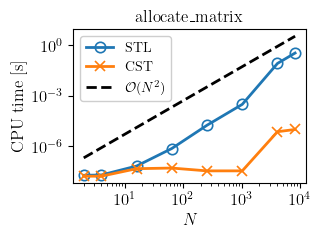
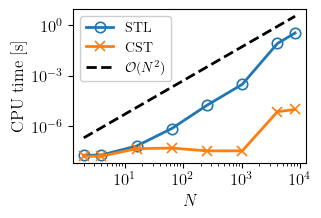
modifying readme

diff --git a/benchmarks/python/common.py b/benchmarks/python/common.py
@@ -94,6 +94,7 @@ def label_from_key(key):
 def plot_results(data, save_plots_to_disk, show_plots, output_file, plot_options):
     location = plot_options["location"]
     legend_outside = plot_options["legend_outside"] if "legend_outside" in plot_options else False
+    print_figure_title = plot_options["print_figure_title"]
     figure_title = plot_options["figure_title"]
     show_legend = plot_options["show_legend"]
     logx = plot_options["logx"]
@@ -210,7 +211,7 @@ def plot_results(data, save_plots_to_disk, show_plots, output_file, plot_options
         else:
             ax.set_yticks(merged_ax2)
 
-    if figure_title != "":
+    if print_figure_title:
         ax.set_title(figure_title)
 
     ax.legend(loc=location, facecolor='white', framealpha=0.95)

diff --git a/benchmarks/python/plot_results.py b/benchmarks/python/plot_results.py
@@ -21,6 +21,7 @@ show_plots = False
 output_file = Path(benchmarks_path / (benchmark_name + ".png"))
 plot_options = dict()
 plot_options["location"] = "upper left"
+plot_options["print_figure_title"] = False
 plot_options["figure_title"] = benchmark_name
 plot_options["with_legend"] = True
 plot_options["logx"] = True

diff --git a/README.md b/README.md
@@ -3,7 +3,6 @@
 
 This repository implements a small linear algebra library in C++ with two distinct backends for performing operations on matrices and vectors. Both backends are designed to evaluate operations lazily, offering efficiency and flexibility.
 
----
 
 ## Goals of the Project
 
@@ -22,7 +21,6 @@ The project sought to compare the efficiency of two backends designed for lazy e
 ### 4. Investigating Custom (CST) Containers vs STL Containers
 Another key motivation was to explore whether a very simple user-implemented container could achieve the same level of efficiency as `std::vector`, the standard container for dynamic arrays in C++.
 
----
 
 ## Overview of the Backends
 
@@ -35,16 +33,37 @@ Leverages the modern C++ Ranges and Views library for lazy evaluation of operati
 In both backends the underlying container for storing matrix and vector coefficients is templetized. By default, ET uses `std::vector` and RG uses a custom container implemented from scratch. 
 
 ## Performance Comparison
-This section presents the results of performance comparisons between the two backends. The analysis is divided into two parts:
+This section presents the results of performance comparisons between the two backends. The analysis is divided into two parts.
 
 ### 1. **Comparison of Underlying Containers: STL VS CST**
-Here, we evaluate the performance difference between `std::vector` (STL) and the custom-made (CST) container. To do so, we first consider matrices using the RG backend and `std::vector` as underlying container, and perform some simple memory acces and/or modify operations on the coefficients. We consider different matrix sizes (N) and measure CPU time. We denote these experiments STL. Then we perform the same experiments using again matrices using the RG backend but with the custom-made container. We denote these experiments CST.
+Here, we evaluate the performance difference between `std::vector` (STL) and the custom-made (CST) container. To do so, we first consider matrices using the RG backend and `std::vector` as underlying container, and perform some simple memory acces and/or modify operations on the coefficients. We consider different matrix sizes ($N$) and measure CPU time. We denote these experiments STL. Then we perform the same experiments using again matrices using the RG backend but with the custom-made container. We denote these experiments CST.
 
+In the following plots we denote: $A,B,C,D$ square matrices of size $N$; $s,r$ real numbers; $f(x)=x^2+1$ a function applied element-wise to the matrices coefficients.
 
-<table align="center">
+<table align="center", border=0, style="width:100%">
   <tr>
-    <td><img src="./benchmarks/results/copy_matrix.png" height="150"/><br><center><em>Matrix deep copy,</em></center></td>
-    <td><img src="./benchmarks/results/apply_inplace_fun.png" height="150"/><br><center><em>Apply f(x) to all coefficients,</em></center></td>
+    <td valign="top">
+    <center><img src="./benchmarks/results/copy_matrix.png" height="150"/></center>
+    <center><em>Matrix deep copy: A=B.</em></center></td>
+    <td valign="top">
+    <center><img src="./benchmarks/results/operator[].png" height="150"/></center>
+    <center><em>Access operator: A[i,j] for all i,j.</em></center></td>
+    <td valign="top">
+    <center><img src="./benchmarks/results/apply_inplace_fun.png" height="150"/></center>
+    <center><em>Apply f(x) element-wise: f(A).</em></center></td>
+  </tr>
+</table>
+<table align="center", border=0, style="width:100%">
+  <tr>
+    <td valign="top">
+    <center><img src="./benchmarks/results/LU_factorization.png" height="150"/></center>
+    <center><em>LU factorization of A.</em></center></td>
+    <td valign="top">
+    <center><img src="./benchmarks/results/mult_four_mat.png" height="150"/></center>
+    <center><em>Matrices multiplication: A@B@C@D.</em></center></td>
+    <td valign="top">
+    <center><img src="./benchmarks/results/long_op_1.png" height="150"/></center>
+    <center><em>Perform element-wise:<br>E = A * (s + B) + (C - r * A) / f(D).</em></center></td>
   </tr>
 </table>
 
@@ -52,4 +71,27 @@ Here, we evaluate the performance difference between `std::vector` (STL) and the
 ### 2. **Comparison of Backend Approaches: ET VS RG**
 In this subsection, we focus on the difference in performance between the classic expression templates (ET) approach and the modern ranges/views (RG) approach. We perform some linear algebra expressions on matrices using the ET and RG backends and compare the CPU times. In both cases, the underlying container is `std::vector`.
 
----
+
+<table align="center", border=0, style="width:100%">
+  <tr>
+    <td valign="top">
+    <center><img src="./benchmarks/results/mult_elwise_two_mat.png" height="150"/></center>
+    <center><em>Element-wise multiplication: A*B.</em></center></td>
+    <td valign="top">
+    <center><img src="./benchmarks/results/mult_with_scalar.png" height="150"/></center>
+    <center><em>Sum with scalar: A+s.</em></center></td>
+    <td valign="top">
+    <center><img src="./benchmarks/results/mult_two_expr.png" height="150"/></center>
+    <center><em>Matrix multiplication of two expressions:<br>(A * B + C * D) @ (B * C - D * A).</em></center></td>
+  </tr>
+</table>
+<table align="center", border=0, style="width:66%">
+  <tr>
+    <td valign="top">
+    <center><img src="./benchmarks/results/sum_four_mat.png" height="150"/></center>
+    <center><em>Sum of four matrices: A+B+C+D.</em></center></td>
+    <td valign="top">
+    <center><img src="./benchmarks/results/long_op_2.png" height="150"/></center>
+    <center><em>Perform element-wise:<br>E = A * (s + B) + (C - r * A) / f(D).</em></center></td>
+  </tr>
+</table>
